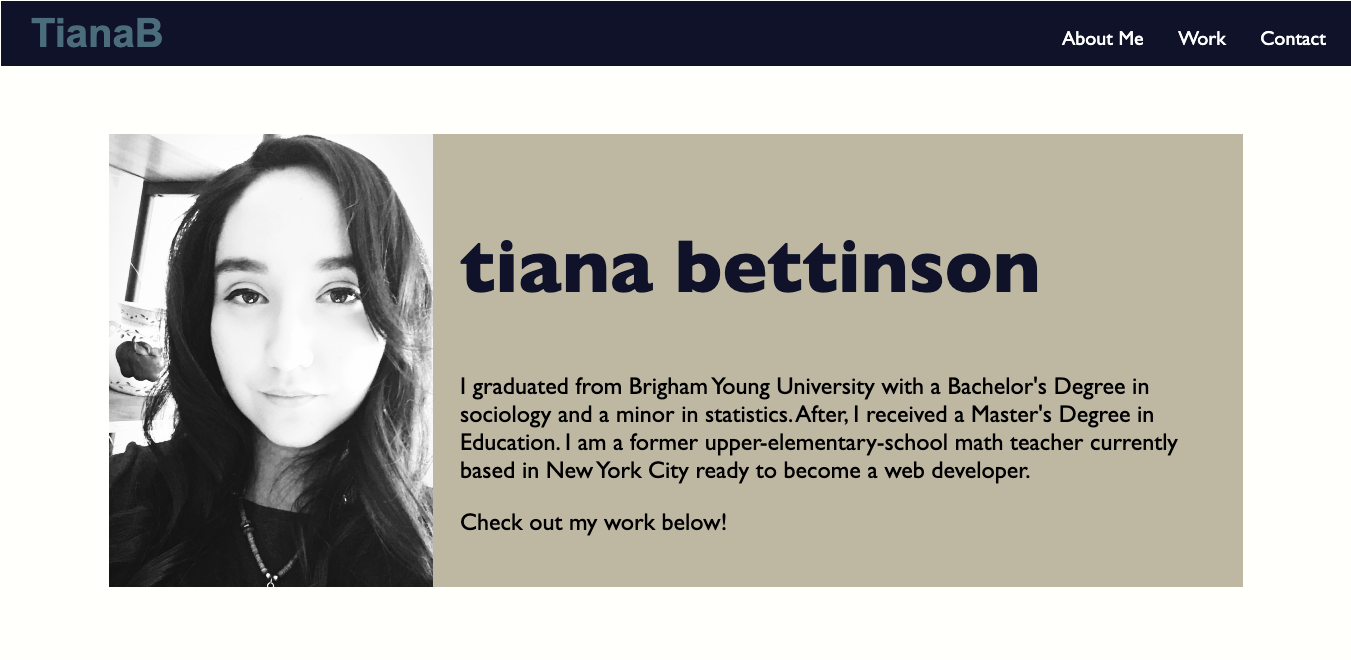
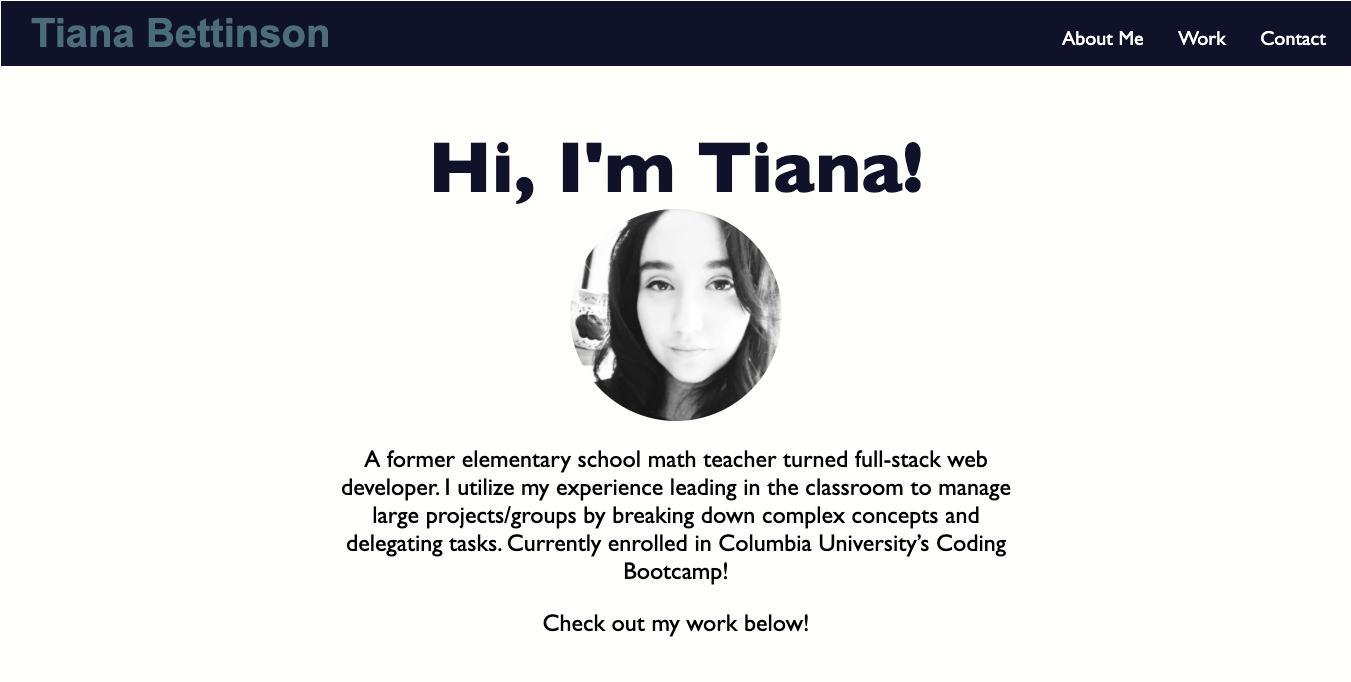
Redid contact section and footer

diff --git a/index.html b/index.html
@@ -3,6 +3,7 @@
 
 <head>
     <link href="https://fonts.googleapis.com/icon?family=Material+Icons" rel="stylesheet">
+    <link rel="stylesheet" href="https://cdnjs.cloudflare.com/ajax/libs/font-awesome/4.7.0/css/font-awesome.min.css">
     <link rel="stylesheet" href="./assets/css/style.css">
     <link rel="stylesheet" href="./assets/css/screen-adjust.css">
     <title>Tiana Bettinson | Portfolio</title>
@@ -28,14 +29,15 @@
         </ul>
     </header>
     <div class="about-section" id="about-me">
-        <div class="about-text">
-            <h2>Hi, I'm Tiana!</h2>
+        <h2>Hi, I'm Tiana!</h2>
+        <div class="section-text">
             <div class="about-img-container">
                 <img class="about-img" src="assets/images/Me1.jpg">
             </div>
             <p>
                 A former elementary school math teacher turned full-stack web developer.
-                <span> I utilize my experience leading in the classroom to manage large projects/groups by breaking down complex concepts and delegating tasks.</span>
+                <span> I utilize my experience leading in the classroom to manage large projects/groups by breaking down
+                    complex concepts and delegating tasks.</span>
                 Currently enrolled in Columbia University’s Coding Bootcamp!
             </p>
             <p>Check out my work below!</p>
@@ -52,13 +54,26 @@
         </div>
     </section>
     <!-- Contact Information -->
-    <footer id="contact">
-        <h4>Contact Me</h4>
-        <div class="footer-item">
-            <p><b>Email: </b>tiana.bettinson@gmail.com</p>
-            <p><b>GitHub: </b><a href="https://github.com/tbetti" target="_blank">github.com/tbetti</a></p>
+    <section class="master-container" id="contact">
+        <h2>Contact</h2>
+        <p class="section-text">
+            If you like my websites, be sure to reach out! Also, check out my other work and see what I've been up to on
+            GitHub and LinkedIn. I look forward to connecting with you!
+        </p>
+        <div class="contact-container">
+            <a href="mailto:tiana.bettinson@gmail.com">
+                <i class="fa fa-envelope"></i>
+            </a>
+            <a href="https://www.linkedin.com/in/tianabettinson/">
+                <i class="fa fa-linkedin"></i>
+            </a>
+            <a href="https://github.com/tbetti">
+                <i class="fa fa-github"></i>
+            </a>
         </div>
-
+    </section>
+    <footer>
+        <h4>Coded and Designed by Tiana Bettinson</h4>
     </footer>
 
     <script src="https://code.jquery.com/jquery-3.5.1.min.js"></script>

diff --git a/assets/css/style.css b/assets/css/style.css
@@ -47,22 +47,22 @@ a:hover{
 
 /* About Me Section */
 .about-section{
-    display: flex;
     background-color: var(--bkgd-color);
-    text-align: center;
 }
 
-.about-text{
+.section-text{
     width: 50%;
     margin-left: auto;
     margin-right: auto;
     font-size: 24px;
+    text-align: center;
 }
 
-.about-text h2{
+.about-section h2{
     font-size: 72px;
     margin-bottom: 0%;
     color: var(--blue-main);
+    text-align: center;
 }
 
 .about-img-container{
@@ -84,17 +84,16 @@ a:hover{
 /* Basic styling for both about-me and work sections */
 .master-container{
     margin: 8%;
+    margin-bottom: 0%;
     border-top: 5px solid var(--magenta-accent);
 }
-.work{
-    width: 30%;
-}
-.work h2{
+.master-container h2{
     color: var(--blue-main);
     font-size: 75px;
     text-transform: lowercase;
+    text-align:center;
+    margin: 0%;
     padding: 30px;
-    margin: -2%;
 }
 
 /* Styling for the Work Card */
@@ -127,37 +126,33 @@ a:hover{
     margin-top: 0%;
 }
 
+/* Contact Section */
+.master-container p{
+    margin-top: 0%;
+    margin-bottom: 0%;
+}
+
+.contact-container{
+    display: flex;
+    justify-content: center;
+}
+
+.contact-container a{
+    font-size:42px; 
+    color: rgb(79, 109, 122);
+    text-decoration: none;
+    margin: 2%;
+}
+
 /* Styling for the Footer */
 footer{
     text-align: center;
-    margin-top: 40px;
     background-color: var(--bkgd-color2);
 }
 footer h4{
     color: var(--blue-main);
     font-size: 24px;
     text-transform: lowercase;
+    padding: 1%;
     margin:0px;
-}
-.footer-item{
-    display: flex;
-    margin: auto;
-    width: 50%;
-}
-.footer-item b{
-    color: var(--blue-main);
-}
-.footer-item p{
-    margin-left: 50px;
-    margin-right: 25px;
-    font-size: 20px; 
-}
-
-.footer-item a{
-    color: var(--lt-blue);
-    text-decoration: none;
-}
-
-.footer-item a:hover{
-    color: var(--magenta-accent);
 }
